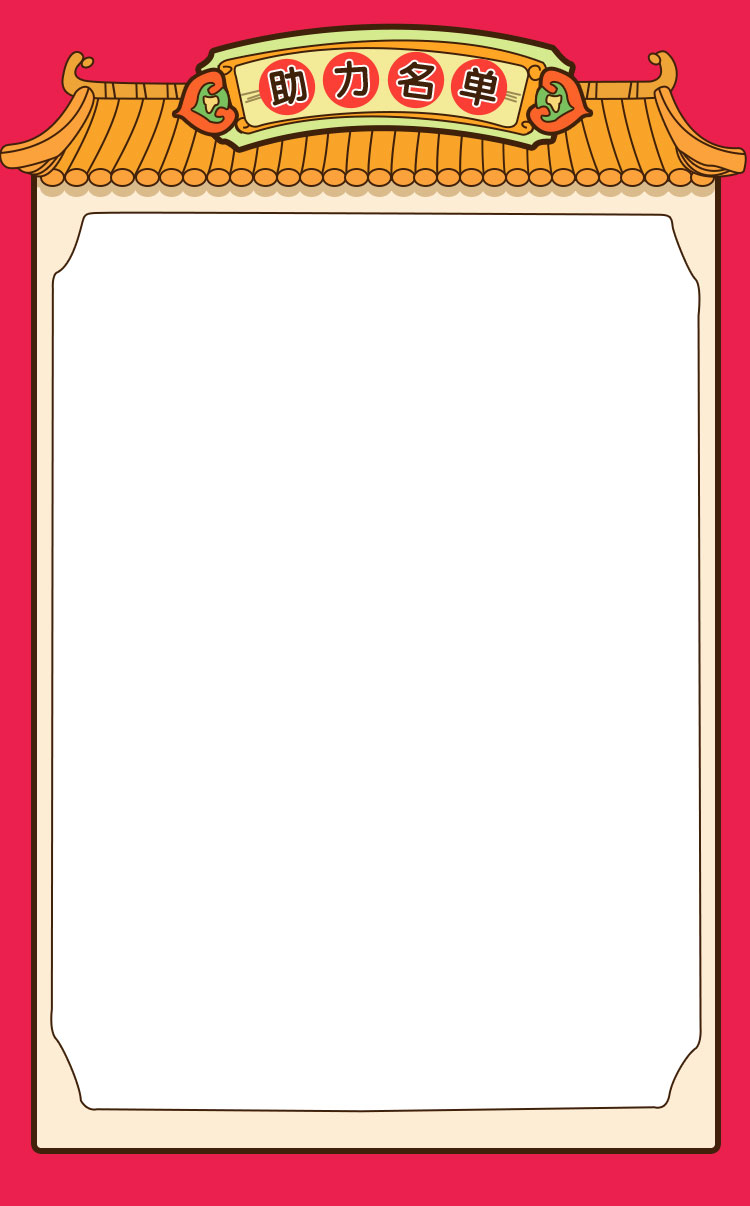
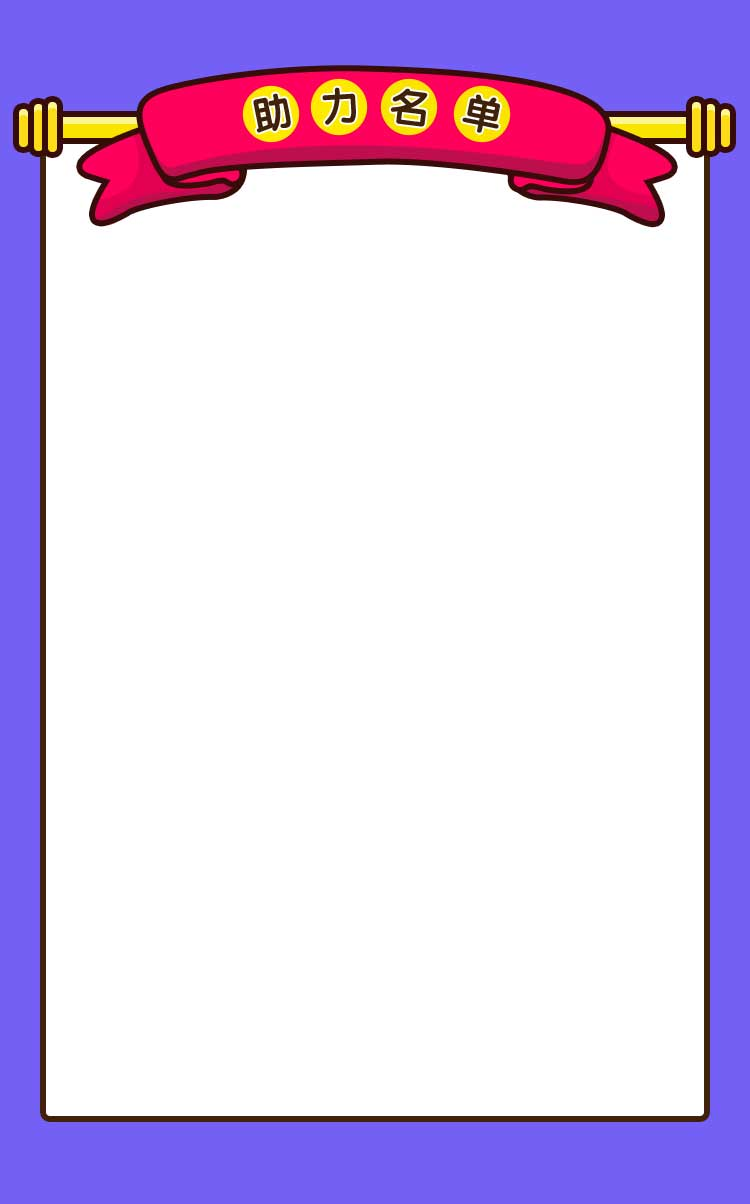
新增助力详情

diff --git a/src/components/Explain.vue b/src/components/Explain.vue
@@ -5,12 +5,12 @@
          	<img class="lv_j2" src="../public/img/lv_jiao1.png"/>
          	<div class="lv_bangtitle"><img src="../public/img/lv_lianr.png" /></div>
          	<div class="lvtext">
-         		<h1><strong>活动时间：</strong><font color="#fa3e35">10月1日—10月15日</font></h1>
+         		<h1><strong>活动时间：</strong><font color="#fa3e35">11月6日—11月30日</font></h1>
 	         	<h1><strong>活动介绍：</strong></h1>
-	         	<p>活动期间通过活动页面点击“我要拼团”按钮并填写拼团信息，并发起拼团邀请好友共同参与，组成8人团体即为拼团成功。完成拼团成员，每人将获得价值680元四六级英语课程一份（无二次消费）。活动结束后，我们还将在所有参与学生中抽取幸运者赠送一下奖品：</p>
-        <h1><strong>一等奖(3名)：</strong>iphone X 64G一部</h1>
-				<h1><strong>二等奖(5名)：</strong>kindle Paperwhite一部</h1>
-				<h1><strong>三等奖(50名)：</strong>100元京东E卡一张</h1>
+	         	<p>活动期间通过活动页面点击“我要拼团”按钮并填写拼团信息，并发起拼团邀请好友共同参与，组成8人团体即为拼团成功。所有拼团成功的学生100%获得四六级英语课程一份。活动结束后，我们还将在所有参与学生中抽取幸运者赠送一下奖品：</p>
+        <h1><strong>特等奖(2名)：</strong>价值8688元的iPhone X 64G 2台</h1>
+				<h1><strong>一等奖(5名)：</strong>价值4888元的中博课程神券（可购买中博全品类课程） 5张</h1>
+				<h1><strong>二等奖(5名)：</strong>价值2888元的Apple wacth Series3  5台</h1>
 				<p style="text-align: center;"><font color="#fa3e35">备注：发起人获得以上奖品的几率更大。</font></p>
 
 

diff --git a/src/components/Userdetail.vue b/src/components/Userdetail.vue
@@ -30,16 +30,16 @@
   .content {
     width:100%;
     height: 100%;
-    background: url("../public/img/lv_bak.jpg") no-repeat;
+   /* background: url("../public/img/lv_bak.jpg") no-repeat;
     background-size: 100% 100%;
     overflow: hidden;
-    padding: 0.28rem 0;
+    padding: 0.28rem 0;*/
     .content-bg{
       width: 100%;
       height: 100% ;
-      background: url("../public/img/z_userbg.png") no-repeat;
+      background: url("../public/img/z_userbg.jpg") no-repeat;
       background-size:100% 100%;
-      padding:0 0.44rem 0.48rem;
+      padding:0 0.44rem 0;
       .user-detail{
         overflow: hidden;
       }

diff --git a/src/components/Sign.vue b/src/components/Sign.vue
@@ -13,12 +13,12 @@
    			<p>
    				<input class="lv_inp" placeholder="所学专业" type="text" name="" id="" value="" />
    			</p>
-   			
-   			
+
+
 
    			<div @touchstart="submit" class="lv_tijiao" href="javascript:;"><img src="../public/img/lv_tijiao.png" /></div>
 
-   		
+
    		</div>
    </div>
 </template>
@@ -34,7 +34,7 @@
         		if(confirm('确定要提交吗？')){
         			alert('提交成功！');
         			this.$router.push({
-        				path:'/'
+        				path:'/userdetail/myjoin'
         			})
         		}
         	}

diff --git a/src/components/Myjoin.vue b/src/components/Myjoin.vue
@@ -45,9 +45,9 @@
 <style scoped lang="less">
   .nojoin{
     position: absolute;
-    top: 3rem;
+    top: 2.5rem;
     width:6.7rem;
-    bottom:0.5rem;
+    bottom:1.2rem;
     background: url("../public/img/z_bgfaqi.png") no-repeat center center;
     background-size:100% 100% ;
     .list {

diff --git a/src/components/Nojoin.vue b/src/components/Nojoin.vue
@@ -21,9 +21,9 @@
 <style scoped lang="less">
 .nojoin{
    position: absolute;
-   top: 3rem;
+   top: 2.5rem;
    width:6.7rem;
-   bottom:0.5rem;
+   bottom:1.2rem;
    background: url("../public/img/z-xiaolong_03.png") no-repeat center center;
    background-size:100% 100% ;
   .btn{

diff --git a/src/components/Mystart.vue b/src/components/Mystart.vue
@@ -102,8 +102,8 @@
 <style scoped lang="less">
   .nojoin{
     position: absolute;
-    top: 3rem;
-    bottom:0.5rem;
+    top: 2.5rem;
+    bottom:1.2rem;
     width:6.7rem;
     background: url("../public/img/z_bgcanyu.png") no-repeat center center;
     background-size:100% 100% ;

diff --git a/src/components/Nostart.vue b/src/components/Nostart.vue
@@ -21,9 +21,9 @@
 <style scoped lang="less">
 .nojoin{
    position: absolute;
-   top: 3rem;
+   top: 2.5rem;
    width:6.7rem;
-   bottom:0.5rem;
+   bottom:1.2rem;
    background: url("../public/img/z_nostart.png") no-repeat center center;
    background-size:100% 100% ;
   .btn{

diff --git a/src/components/Linkto.vue b/src/components/Linkto.vue
@@ -54,7 +54,7 @@
 
 <style scoped lang="less">
   .nav{
-    margin: 2.09rem auto 0;
+    margin: 1.8rem auto 0;
    /* width:4.44rem;*/
     height: 1.54rem;
     a{

diff --git a/src/App.vue b/src/App.vue
@@ -15,5 +15,6 @@ export default {
 @import './public/less/public';
 body{
   font-size:0.16rem;
+  background: #7460f5;
 }
 </style>

diff --git a/src/public/js/public.js b/src/public/js/public.js
@@ -12,3 +12,5 @@ $(function(){
       clenWidth();
     }
 })
+
+
